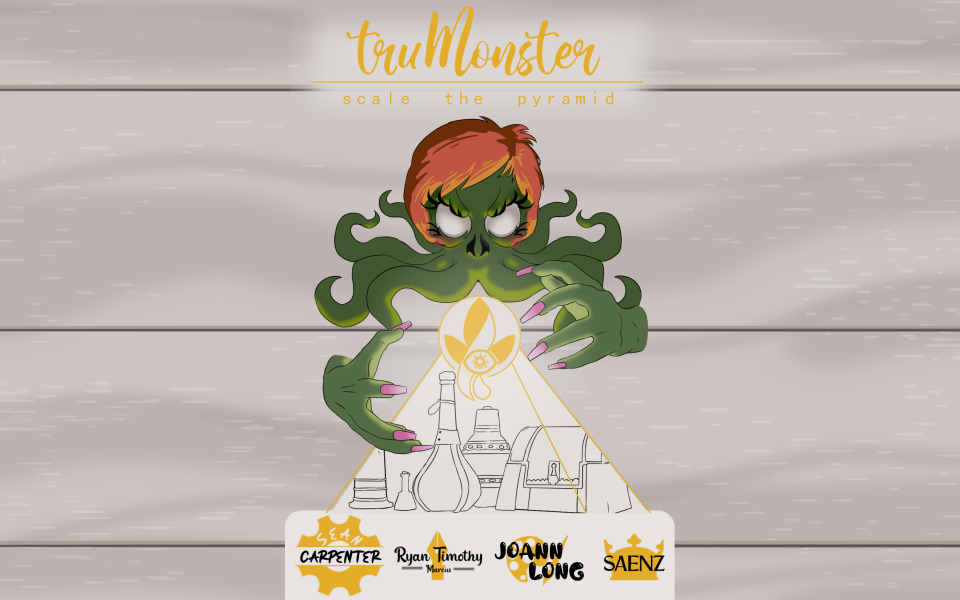
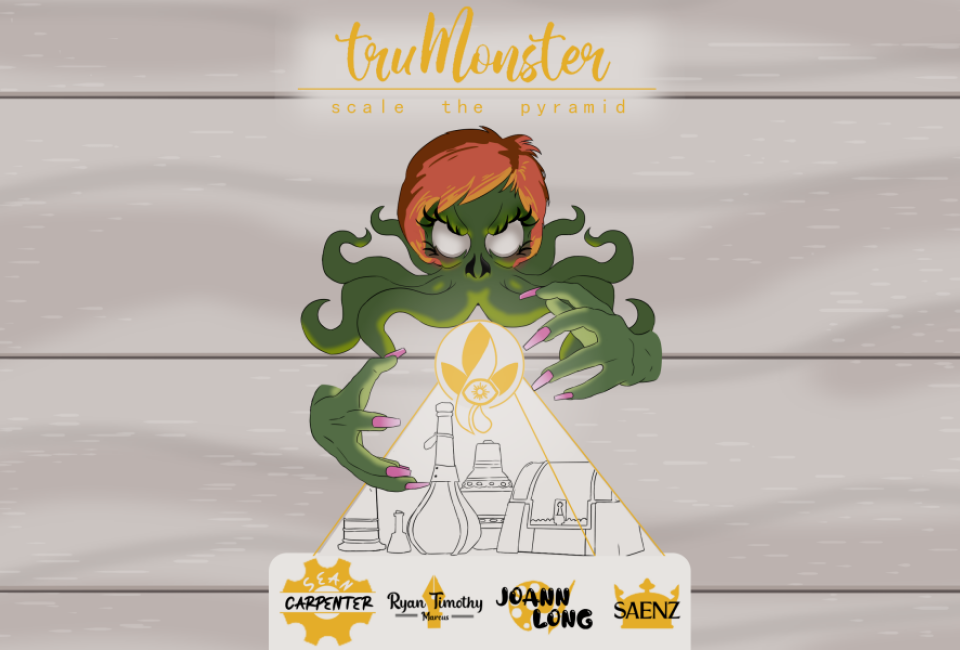
create start scene

diff --git a/src/scenes/Start.js b/src/scenes/Start.js
@@ -7,12 +7,23 @@ class Start extends Phaser.Scene {
     preload() {
 
         //this.load.image('audioOff', '././assets/audioOff.png');
-        this.load.image('start_bg', '././assets/login_bg.png');
+        this.load.image('start_bg', '././assets/coverImageFull.png');
+        this.load.image('login_bg', '././assets/login_bg.png');
 
         
         this.load.image('loginButton', '././assets/loginButton.png');
         this.load.image('loginButtonHover', '././assets/loginButtonHover.png');
 
+        
+        //hover sounds
+        this.load.audio('hover1SFX', '././assets/sfx/hover1.wav');
+        this.load.audio('hover2SFX', '././assets/sfx/hover2.wav');
+        this.load.audio('hover3SFX', '././assets/sfx/hover3.wav');
+        this.load.audio('hover4SFX', '././assets/sfx/hover4.wav');
+        //click sounds
+        this.load.audio('click1SFX', '././assets/sfx/click1.wav');
+        this.load.audio('click2SFX', '././assets/sfx/click2.wav');
+        this.load.audio('click3SFX', '././assets/sfx/click3.wav');
 
     }
 
@@ -22,22 +33,22 @@ class Start extends Phaser.Scene {
 
         
         //up down buttons
-        this.loginButton = this.add.image(game.config.width-100,game.config.height-50, 'loginButton').setScale(0.5).setDepth(4);
+        this.loginButton = this.add.image(centerX,centerY+100, 'loginButton').setScale(0.5).setDepth(1);
 
 
+        
+        this.timer = this.time.delayedCall(2000, () => {
+            this.fadeOut();
+        }, null, this);
 
 
-        this.bg = this.add.tileSprite(0, 0, 960, 650, 'start_bg').setOrigin(0, 0);
+        this.coverImg = this.add.tileSprite(0, 0, 960, 650, 'start_bg').setOrigin(0, 0).setDepth(3);
+        this.bg = this.add.tileSprite(0, 0, 960, 650, 'login_bg').setOrigin(0, 0);
 
 
         this.loginButton.setInteractive();
         this.loginButton.on('pointerdown', () => { 
-            if(this.bg.y>=-1480){
-                this.bg.height+=100;
-                this.bg.y-=100;
-
-            }
-            console.log(this.bg.y);
+            this.scene.start("messengerScene");
         });
 
         this.loginButton.on('pointerover', () => { 
@@ -54,5 +65,13 @@ class Start extends Phaser.Scene {
     update() {
     }
 
+    fadeOut(){
+        if(this.coverImg.alpha > 0){
+            this.timer = this.time.delayedCall(50, () => {
+                this.coverImg.alpha -= 0.1;
+                this.fadeOut();
+            }, null, this);
+        }
+    }
     
 }
